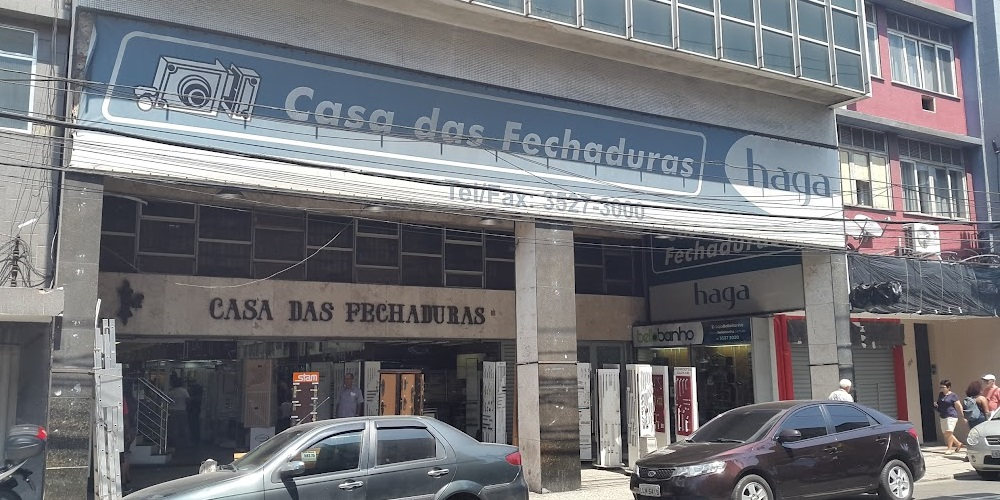
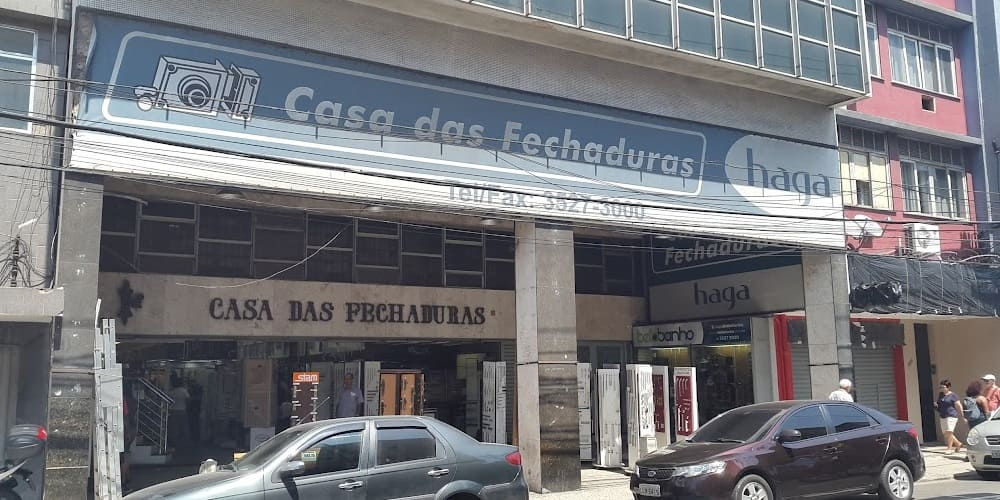
trocadas fotos para versões jpeg comprimidas e wbep, facilitando bastante o carregamento, trocados alguns html de título e alt de imagem do card para melhor acessibilidade

Changed region(s): [[0.744, 0.96, 0.775, 0.99]]

diff --git a/src/components/About.jsx b/src/components/About.jsx
@@ -1,15 +1,15 @@
 import './About.scss'
 
-import img1956 from '../assets/img/about/1956.jpg'
-import amaralpeixoto from '../assets/img/about/amaral-peixoto-1970.jpg'
-import casadasfechaduras2010 from '../assets/img/about/casadasfechaduras2010.png'
-import chaveirocf from '../assets/img/about/chaveirocf.png'
-import casadasferramentas from '../assets/img/about/casadasferramentas2010.png'
-import apertodemao from '../assets/img/about/aperto-de-mao.jpg'
-import casadasfechaduras2010lojanova from '../assets/img/about/casadasfechaduras2010lojanova.png'
-import lojabb from '../assets/img/about/lojabb.jpg'
-import equipe from '../assets/img/about/equipe.jpg'
-import treinamento from '../assets/img/about/treinamento.jpg'
+import img1956 from '../assets/img/about/1956.webp'
+import amaralpeixoto from '../assets/img/about/amaral-peixoto-1970.webp'
+import casadasfechaduras2010 from '../assets/img/about/casadasfechaduras2010.webp'
+import chaveirocf from '../assets/img/about/chaveirocf.webp'
+import casadasferramentas from '../assets/img/about/casadasferramentas2010.webp'
+import apertodemao from '../assets/img/about/aperto-de-mao.webp'
+import casadasfechaduras2010lojanova from '../assets/img/about/casadasfechaduras2010lojanova.webp'
+import lojabb from '../assets/img/about/lojabb.webp'
+import equipe from '../assets/img/about/equipe.webp'
+import treinamento from '../assets/img/about/treinamento.webp'
 import MapBox from './partials/MapBox'
 
 export default function About() {

diff --git a/src/components/partials/Gallery.jsx b/src/components/partials/Gallery.jsx
@@ -1,14 +1,14 @@
 import './Gallery.scss'
 
-import foto1 from '../../assets/img/gallery/fotogaleria1.jpg'
-import foto2 from '../../assets/img/gallery/fotogaleria2.JPG'
-import foto3 from '../../assets/img/gallery/fotogaleria3.png'
-import foto4 from '../../assets/img/gallery/fotogaleria6.JPG'
-import foto5 from '../../assets/img/gallery/fotogaleria4.JPG'
-import foto6 from '../../assets/img/gallery/fotogaleria5.JPG'
-import foto7 from '../../assets/img/gallery/fotogaleria7.JPG'
-import foto8 from '../../assets/img/gallery/fotogaleria8.jpg'
-import foto9 from '../../assets/img/gallery/fotogaleria9.JPG'
+import foto1 from '../../assets/img/gallery/fotogaleria1.webp'
+import foto2 from '../../assets/img/gallery/fotogaleria2.webp'
+import foto3 from '../../assets/img/gallery/fotogaleria3.webp'
+import foto4 from '../../assets/img/gallery/fotogaleria6.webp'
+import foto5 from '../../assets/img/gallery/fotogaleria4.webp'
+import foto6 from '../../assets/img/gallery/fotogaleria5.webp'
+import foto7 from '../../assets/img/gallery/fotogaleria7.webp'
+import foto8 from '../../assets/img/gallery/fotogaleria8.webp'
+import foto9 from '../../assets/img/gallery/fotogaleria9.webp'
 
 export default function Gallery() {
   return (

diff --git a/src/components/partials/Cards.jsx b/src/components/partials/Cards.jsx
@@ -10,7 +10,7 @@ export default function Cards() {
   return (
     <section id="card-container">
       <Card className="card-class">
-        <Card.Img className="card-img" variant="top" src={imgcard1} />
+        <Card.Img className="card-img" variant="top" alt="Car1" src={imgcard1} />
         <Card.Body>
           <Card.Title className="card-title">
             Tecnologia de ponta para sua segurança.
@@ -25,7 +25,7 @@ export default function Cards() {
       </Card>
 
       <Card className="card-class">
-        <Card.Img className="card-img" variant="top" src={imgcard3} />
+        <Card.Img className="card-img" variant="top" alt="Card2" src={imgcard3} />
         <Card.Body>
           <Card.Title className="card-title">
             Fazendo história no ramo a decadas.
@@ -38,7 +38,7 @@ export default function Cards() {
       </Card>
 
       <Card className="card-class">
-        <Card.Img className="card-img" variant="top" src={imgcard2} />
+        <Card.Img className="card-img" variant="top" alt="Card3" src={imgcard2} />
         <Card.Body>
           <Card.Title className="card-title">
             Prezamos pelo seu bem estar e conforto.

diff --git a/src/components/partials/Form.jsx b/src/components/partials/Form.jsx
@@ -22,11 +22,11 @@ export default function Forms() {
             <h3 className="contact-info-title">
               Casa das Fechaduras de Niterói
             </h3>
-            <h5 className="contact-info-number">Telefone: (XX) XXXX-XXXX</h5>
+            <h5 className="contact-info-number">Telefone: (21) 3527-3000</h5>
           </div>
           <div className="contact-info-place">
             <h3>Casa das Fechaduras de São Gonçalo</h3>
-            <h5 className="contact-info-number">Telefone: (XX) XXXX-XXXX</h5>
+            <h5 className="contact-info-number">Telefone: (21) 2713-6161</h5>
           </div>
           <div className="contact-info-opening-hours">
             <h3>Horário de funcionamento:</h3>

diff --git a/src/components/partials/Footer.jsx b/src/components/partials/Footer.jsx
@@ -3,7 +3,7 @@ import './Footer.scss'
 export default function Footer() {
   return (
     <footer id="main-footer">
-      <h6>
+      <h1>
         &copy; Casa das Fechaduras 2022 - Todos os Direitos Reservados - Em
         desenvolvimento por{' '}
         <a
@@ -13,7 +13,7 @@ export default function Footer() {
         >
           Patrick Machado
         </a>
-      </h6>
+      </h1>
     </footer>
   )
 }

diff --git a/src/components/partials/Brands.jsx b/src/components/partials/Brands.jsx
@@ -113,7 +113,7 @@ export default function Brands() {
           </a>
         </div>
         <div className="image-box">
-          <h3>E outras</h3>
+          <h2>E outras</h2>
         </div>
       </div>
     </section>

diff --git a/src/components/partials/Brands.scss b/src/components/partials/Brands.scss
@@ -27,6 +27,10 @@
       position: relative;
       overflow: hidden;
 
+      h2 {
+        font-size: x-large;
+      }
+
       img {
         width: 80%;
         height: 80%;

diff --git a/src/components/partials/Footer.scss b/src/components/partials/Footer.scss
@@ -9,6 +9,10 @@
   justify-content: center;
   align-items: center;
   text-align: center;
+
+  h1 {
+    font-size: medium;
+  }
 }
 
 // @media (max-width: 1120px) {

diff --git a/README.md b/README.md
@@ -30,6 +30,9 @@ Your app is ready to be deployed!
 
 See the section about [deployment](https://facebook.github.io/create-react-app/docs/deployment) for more information.
 
+### `npm run deploy`
+
+Deploy the build made into the gh-pages then deploy it on github's link
 ### `npm run eject`
 
 **Note: this is a one-way operation. Once you `eject`, you can't go back!**
